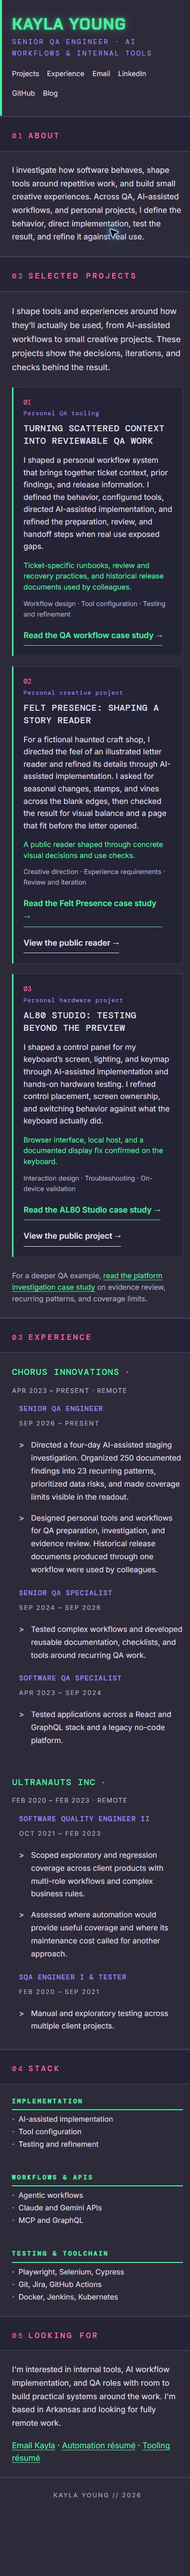
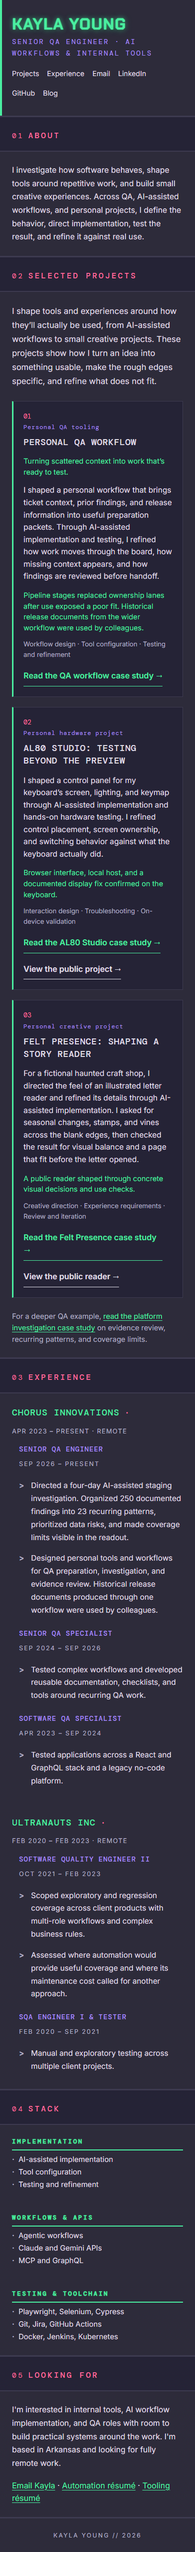
Refocus selected projects on shaping and iterative building

Changed region(s): [[0.0579, 0.0, 0.9263, 0.9982], [0.0, 0.0, 0.0289, 0.0624]]

diff --git a/portfolio/index.html b/portfolio/index.html
@@ -44,31 +44,21 @@
 <section class="section print-hide" id="selected-projects" aria-labelledby="projects-heading">
   <div class="section-label"><span class="section-number">02</span><h2 class="section-name" id="projects-heading">Selected Projects</h2></div>
   <div class="section-content projects-content">
-    <p class="projects-intro">I shape tools and experiences around how they’ll actually be used, from AI-assisted workflows to small creative projects. These projects show the decisions, iterations, and checks behind the result.</p>
+    <p class="projects-intro">I shape tools and experiences around how they’ll actually be used, from AI-assisted workflows to small creative projects. These projects show how I turn an idea into something usable, make the rough edges specific, and refine what does not fit.</p>
     <div class="project-list">
       <article class="project">
         <div class="project-num">01</div><div>
           <p class="project-tech">Personal QA tooling</p>
-          <h3 class="project-name">Turning scattered context into reviewable QA work</h3>
-          <p class="project-desc">I shaped a personal workflow system that brings together ticket context, prior findings, and release information. I defined the behavior, configured tools, directed AI-assisted implementation, and refined the preparation, review, and handoff steps when real use exposed gaps.</p>
-          <p class="project-impact">Ticket-specific runbooks, review and recovery practices, and historical release documents used by colleagues.</p>
+          <h3 class="project-name">Personal QA Workflow</h3>
+          <p class="project-impact">Turning scattered context into work that’s ready to test.</p>
+          <p class="project-desc">I shaped a personal workflow that brings ticket context, prior findings, and release information into useful preparation packets. Through AI-assisted implementation and testing, I refined how work moves through the board, how missing context appears, and how findings are reviewed before handoff.</p>
+          <p class="project-impact">Pipeline stages replaced ownership lanes after use exposed a poor fit. Historical release documents from the wider workflow were used by colleagues.</p>
           <p class="project-context">Workflow design · Tool configuration · Testing and refinement</p>
           <a class="project-link" href="projects/qa-workflow.html">Read the QA workflow case study <span aria-hidden="true">&rarr;</span></a>
         </div>
       </article>
       <article class="project">
         <div class="project-num">02</div><div>
-          <p class="project-tech">Personal creative project</p>
-          <h3 class="project-name">Felt Presence: shaping a story reader</h3>
-          <p class="project-desc">For a fictional haunted craft shop, I directed the feel of an illustrated letter reader and refined its details through AI-assisted implementation. I asked for seasonal changes, stamps, and vines across the blank edges, then checked the result for visual balance and a page that fit before the letter opened.</p>
-          <p class="project-impact">A public reader shaped through concrete visual decisions and use checks.</p>
-          <p class="project-context">Creative direction · Experience requirements · Review and iteration</p>
-          <a class="project-link" href="projects/felt-presence.html">Read the Felt Presence case study <span aria-hidden="true">&rarr;</span></a>
-          <a class="project-link project-link-secondary" href="https://felt-presence.snackdriven.com/">View the public reader <span aria-hidden="true">&rarr;</span></a>
-        </div>
-      </article>
-      <article class="project">
-        <div class="project-num">03</div><div>
           <p class="project-tech">Personal hardware project</p>
           <h3 class="project-name">AL80 Studio: testing beyond the preview</h3>
           <p class="project-desc">I shaped a control panel for my keyboard’s screen, lighting, and keymap through AI-assisted implementation and hands-on hardware testing. I refined control placement, screen ownership, and switching behavior against what the keyboard actually did.</p>
@@ -76,6 +66,17 @@
           <p class="project-context">Interaction design · Troubleshooting · On-device validation</p>
           <a class="project-link" href="projects/al80-studio.html">Read the AL80 Studio case study <span aria-hidden="true">&rarr;</span></a>
           <a class="project-link project-link-secondary" href="https://snackdriven.github.io/al80-studio/">View the public project <span aria-hidden="true">&rarr;</span></a>
+        </div>
+      </article>
+      <article class="project">
+        <div class="project-num">03</div><div>
+          <p class="project-tech">Personal creative project</p>
+          <h3 class="project-name">Felt Presence: shaping a story reader</h3>
+          <p class="project-desc">For a fictional haunted craft shop, I directed the feel of an illustrated letter reader and refined its details through AI-assisted implementation. I asked for seasonal changes, stamps, and vines across the blank edges, then checked the result for visual balance and a page that fit before the letter opened.</p>
+          <p class="project-impact">A public reader shaped through concrete visual decisions and use checks.</p>
+          <p class="project-context">Creative direction · Experience requirements · Review and iteration</p>
+          <a class="project-link" href="projects/felt-presence.html">Read the Felt Presence case study <span aria-hidden="true">&rarr;</span></a>
+          <a class="project-link project-link-secondary" href="https://felt-presence.snackdriven.com/">View the public reader <span aria-hidden="true">&rarr;</span></a>
         </div>
       </article>
     </div>

diff --git a/portfolio/projects/qa-workflow.html b/portfolio/projects/qa-workflow.html
@@ -24,10 +24,10 @@
 <section id="problem"><h2>Problem</h2><p>QA work often starts before the first test. The relevant context can sit across a ticket, a code change, a discussion, a previous finding, and release information. Reassembling it for each task takes attention away from the investigation.</p><p>I wanted a preparation packet I could work from: behavior under test, relevant history, likely regression areas, and an honest account of anything the system could not retrieve.</p></section>
 <section id="decisions"><h2>Decisions and implementation</h2><p>I defined the workflow behavior, configured the tools, directed AI-assisted implementation, and refined the results against real tasks. Related pieces included preparation and investigation tools, ticket-specific runbooks, evidence-review views, and practices for shared artifacts. They support one personal workflow rather than separate headline products.</p><p>The central rule was that an unavailable source must remain visibly unavailable. It cannot become an empty result that implies nothing relevant exists. I also kept preparation, investigation, independent review, and a human decision as separate steps.</p>
 <figure><p class="figure-label">Illustrative reconstruction · No workplace data</p><div class="flow" aria-label="Source context leads to preparation, investigation, independent review, and a human decision"><span>Source context</span><b aria-hidden="true">&rarr;</b><span>Preparation</span><b aria-hidden="true">&rarr;</b><span>Investigation</span><b aria-hidden="true">&rarr;</b><span>Independent review</span><b aria-hidden="true">&rarr;</b><span>Human decision</span></div><div class="reconstruction"><div><strong>Retrieved</strong>Relevant prior behavior is attached to the packet.</div><div><strong>Unavailable</strong>One source could not be checked; the packet says so.</div><div><strong>Open coverage</strong>A persistence check still needs a real save and readback.</div></div><figcaption>A fictional packet shows the three states a reviewer needs to distinguish. It is a diagram of the workflow, not a screenshot or evidence of a specific ticket.</figcaption></figure>
-<p>For shared outputs, I used review before external action, one writer for the current artifact, and recovery steps when work stopped partway through. These were practices to test and revise as the tools changed.</p></section>
+<p>For shared outputs, I used review before external action, one writer for the current artifact, and recovery steps when work stopped partway through. These were practices to test and revise as the tools changed.</p><p>The QA Kanban view also changed after use: ownership-based lanes gave way to pipeline stages so the board could show how work moved. Stale, missing, disconnected, and genuinely empty data needed distinct states. I removed believable sample cards from the live cold-start view so examples could not look like actual work.</p></section>
 <section id="validation"><h2>Validation and refinement</h2><p>Real use exposed gaps. In one review, shortened comment text overstated what the investigation notes supported. I changed the review step to compare each claim against the underlying notes before the comment went out. A polished summary only helps when its claims still match the evidence.</p><p>I also asked for additional random trials after a repaired pilot passed its initial sample. When a separate impact viewer went unused, I moved its information into an existing work surface. A parallel-work pipeline was retired when its overhead did not earn a place in the workflow.</p></section>
 <section id="evidence"><h2>Evidence and output</h2><p>The system produced ticket-specific runbooks and review views. A historical release-documentation workflow assembled scope, status, and merge information into stakeholder documents distributed through Google Docs and Confluence. Colleagues used those documents.</p><p>My QA acceptance verdicts in those documents were user-authored. The surrounding prose was generated or aggregated through the AI-assisted workflow. Use of the documents does not imply coworkers installed or adopted the underlying tools.</p></section>
 <section id="limits"><h2>Limits and lessons</h2><p>This was personal tooling, not organization-wide infrastructure. The release-documentation automation was later retired. Its useful output also revealed maintenance issues, including stale information and environment distinctions that needed correction.</p><p>The practical test for a packet is whether I can begin work from it and see what it has not checked. That is why the review and missing-input states matter as much as the retrieval itself.</p></section>
-<footer class="case-footer"><a href="felt-presence.html">Next: Felt Presence &rarr;</a><a href="mailto:kayla@snackdriven.com">Contact Kayla</a></footer>
+<footer class="case-footer"><a href="al80-studio.html">Next: AL80 Studio &rarr;</a><a href="mailto:kayla@snackdriven.com">Contact Kayla</a></footer>
 </article></div></main>
 </body></html>

diff --git a/portfolio/projects/al80-studio.html b/portfolio/projects/al80-studio.html
@@ -27,6 +27,6 @@
 <section id="validation"><h2>Validation on the keyboard</h2><p>Device-free protocol checks and a mock transport helped test screen packets before hardware sessions. In one debugging session, transfer logs reported that every image-data block was acknowledged, yet the keyboard still showed an old picture. A physical key combination changed the view and still showed the old image. The logs had established receipt, not display.</p><p>The fix added settling time around setup and removed a trailing view switch that advanced past the new card. The corrected sequence was confirmed on the keyboard. That direct feedback turned a vague screen problem into a testable behavior change.</p></section>
 <section id="evidence"><h2>Evidence and result</h2><p>The public project includes a browser control panel, a local host, source code, and documentation. Its records describe historical on-device checks for screen, lighting, and keymap behavior as well as device-free tests. The display debugging record documents the old-picture failure and confirmation of the corrected sequence.</p><p><a href="https://snackdriven.github.io/al80-studio/">View AL80 Studio</a> · <a href="https://github.com/snackdriven/al80-studio">View the source</a></p></section>
 <section id="limits"><h2>Limits and lessons</h2><p>Browser device control uses a wired connection and a WebHID-capable browser. Bluetooth worked in historical testing; an earlier 2.4 GHz success claim was retracted and remains unresolved. The documented hardware checks are historical, not a fresh certification of the current runtime or universal compatibility.</p><p>My contribution here is interaction direction, implementation guidance, troubleshooting, and testing. The case does not claim independent firmware authorship or that every line was handwritten.</p></section>
-<footer class="case-footer"><a href="qa-workflow.html">Next: QA workflow &rarr;</a><a href="mailto:kayla@snackdriven.com">Contact Kayla</a></footer>
+<footer class="case-footer"><a href="felt-presence.html">Next: Felt Presence &rarr;</a><a href="mailto:kayla@snackdriven.com">Contact Kayla</a></footer>
 </article></div></main>
 </body></html>

diff --git a/portfolio/projects/felt-presence.html b/portfolio/projects/felt-presence.html
@@ -27,6 +27,6 @@
 <section id="validation"><h2>Validation and refinement</h2><p>I reviewed the page as an experience rather than treating each visual element as a separate deliverable. The vines needed to feel present across the empty space, but the letter still had to remain the focus. I checked the layout before opening a letter, caught the extra scroll, and asked for the date and time to be consolidated.</p><p>The result came from a sequence of specific requests, review, and correction. The check was whether the reader felt coherent and usable, not whether a first generated version looked decorative.</p></section>
 <section id="evidence"><h2>Evidence and result</h2><p>The public reader presents illustrated letters from the fictional shop. It provides a direct way to see the reading experience described here: <a href="https://felt-presence.snackdriven.com/">visit Felt Presence</a>.</p><p>My documented decisions include the seasonal treatment, stamps, vine placement and transparency, less symmetrical composition, removal of the unwanted initial scroll, and consolidation of date and time.</p></section>
 <section id="limits"><h2>Limits and lessons</h2><p>The source archive and original art references are private. This case uses a labeled diagram instead of copying story assets or presenting a reconstruction as an actual screen. My contribution is creative direction, requirements, implementation guidance, and iterative review. It does not imply that I hand-coded the reader or hold a professional design credential.</p><p>The lesson I keep from this work is practical: atmosphere lives in small decisions, and those decisions have to survive the actual reading flow.</p></section>
-<footer class="case-footer"><a href="al80-studio.html">Next: AL80 Studio &rarr;</a><a href="mailto:kayla@snackdriven.com">Contact Kayla</a></footer>
+<footer class="case-footer"><a href="qa-workflow.html">Next: QA workflow &rarr;</a><a href="mailto:kayla@snackdriven.com">Contact Kayla</a></footer>
 </article></div></main>
 </body></html>
